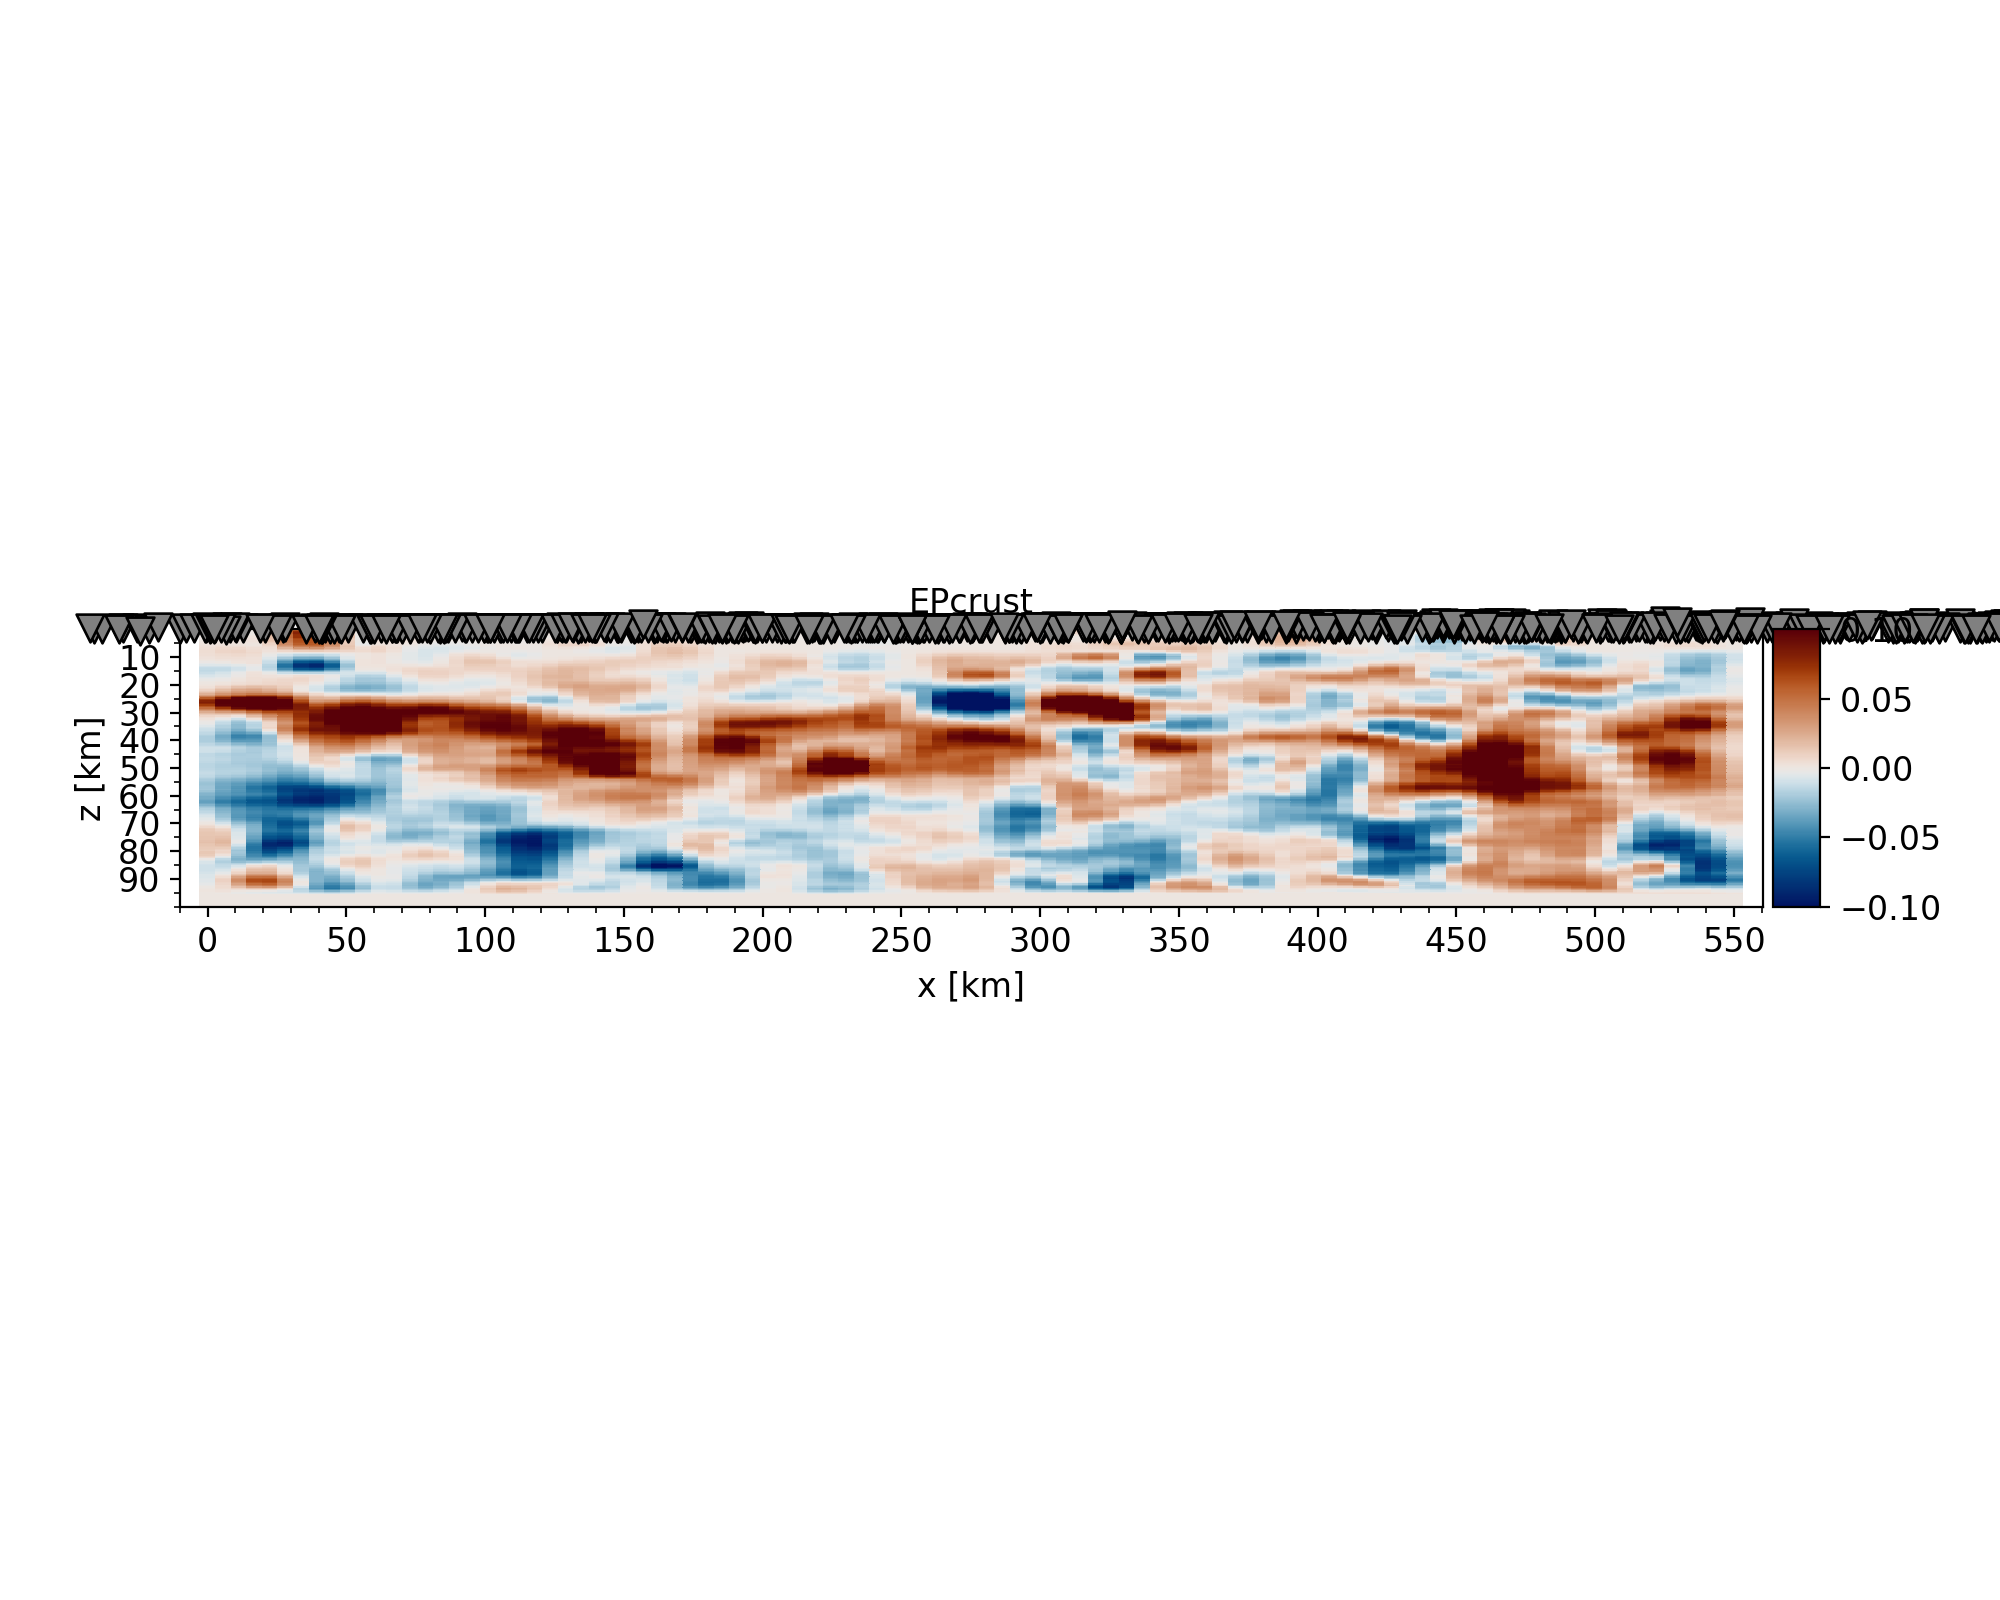
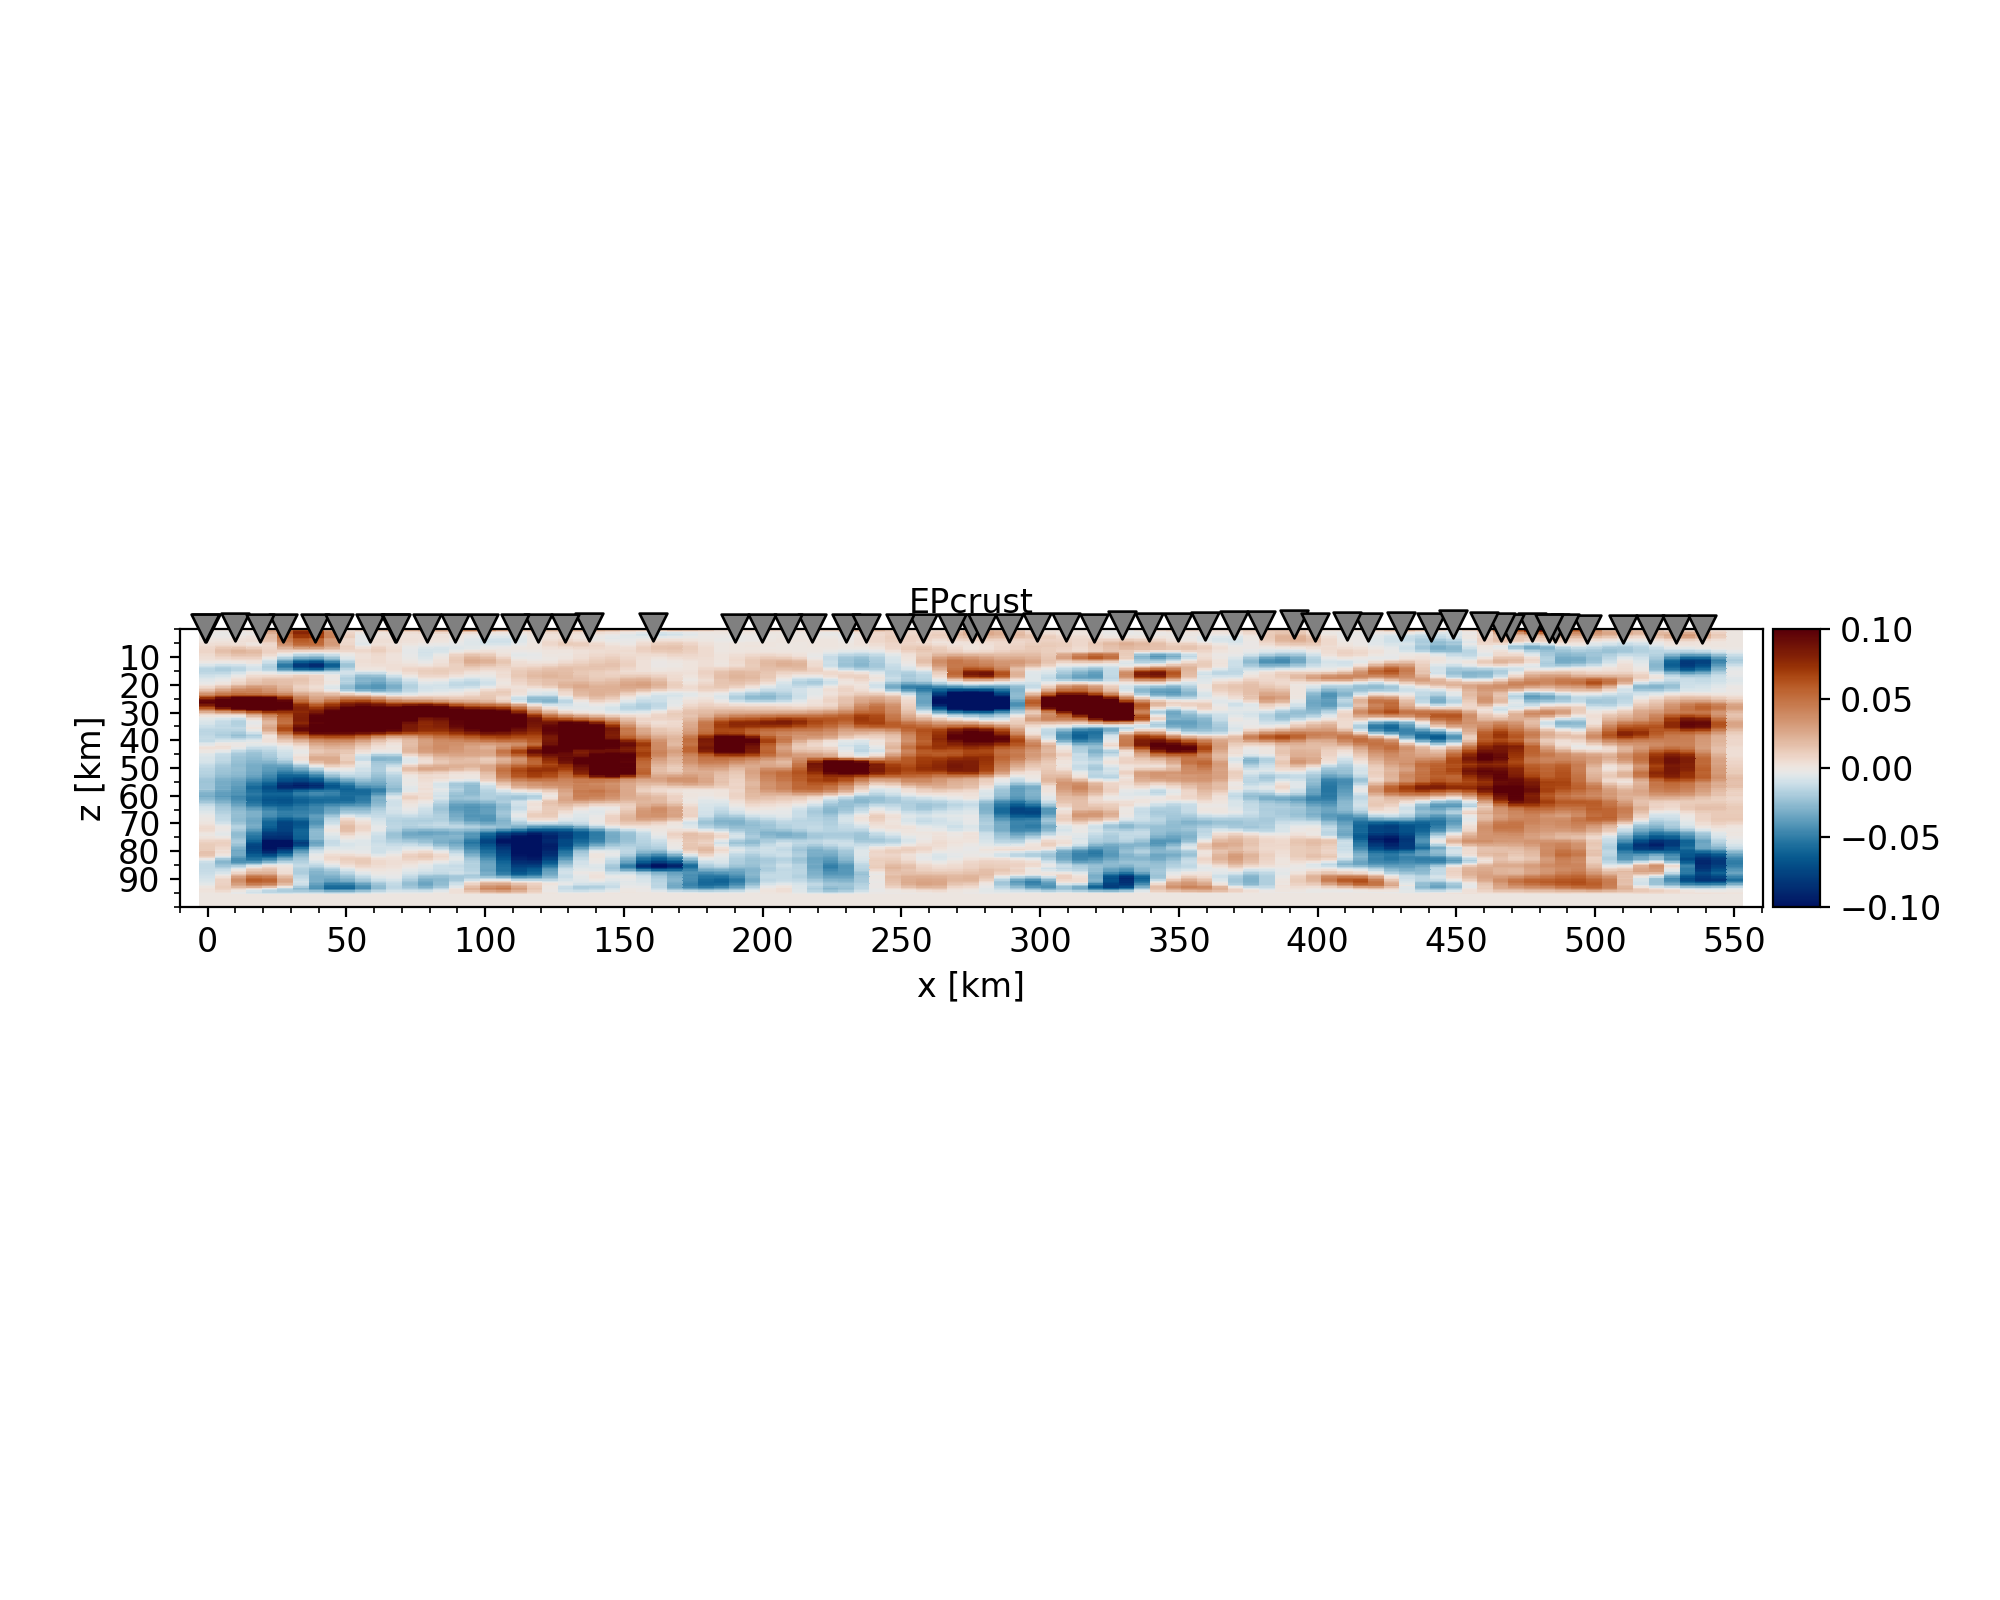
minor changes in comparing epcrust and iasp

Changed region(s): [[0.031, 0.375, 1.0, 0.5625]]

diff --git a/rfmpy/run_examples/iasp91_vs_epcrust.py b/rfmpy/run_examples/iasp91_vs_epcrust.py
@@ -106,16 +106,16 @@ sta = rf_mig.read_stations_from_sac(path2rfs=path)
 with open('/home/kmichailos/Desktop/All_EPcrust.npy', 'rb') as f:
     mObs_ep = np.load(f)
 
-# with open('/home/kmichailos/Desktop/All_iasp91.npy', 'rb') as f:
-#     mObs_ia = np.load(f)
+with open('/home/kmichailos/Desktop/All_iasp91.npy', 'rb') as f:
+    mObs_ia = np.load(f)
 
 
 
 # 3D to 2D
-profile_A = np.array([[8, 46], [8, 48]])
+# profile_A = np.array([[8, 46], [8, 48]])
 profile_A = np.array([[13.35, 50.6], [13.35, 45.6]])
 
-G2_, sta, xx, zz = plot_migration_sphr.create_2d_profile(mObs_ep, m_params, profile_A, sta, swath=25, plot=True)
+G2_, sta, xx, zz = plot_migration_sphr.create_2d_profile(mObs_ep, m_params, profile_A, sta, swath=20, plot=True)
 
 
 def ccp_smooth(G2, migration_param_dict):

diff --git a/build/lib/rfmpy/utils/migration_plots_spher.py b/build/lib/rfmpy/utils/migration_plots_spher.py
@@ -347,6 +347,14 @@ def create_2d_profile(G3, migration_param_dict, profile_points, sta, swath=200, 
         plt.xlim(minx, maxx)
         plt.show()
 
+    # added this to only keep stations within the swath
+    # NOTE Only works for N to S cross sections...
+    # TODO: fix this...
+    print(temp_lon[0],temp_lon[-1] )
+    for index, row in sta.iterrows():
+        if row[2] < temp_lon[0] or row[2] > temp_lon[-1]:
+            sta = sta.drop(index=index)
+
     # Grid preparation
     xx = np.arange(0, profile_len, profile_len / n_extra_points)
     zz = np.arange(minz, maxz + pasz, pasz)

diff --git a/rfmpy/utils/migration_plots_spher.py b/rfmpy/utils/migration_plots_spher.py
@@ -347,6 +347,14 @@ def create_2d_profile(G3, migration_param_dict, profile_points, sta, swath=200, 
         plt.xlim(minx, maxx)
         plt.show()
 
+    # added this to only keep stations within the swath
+    # NOTE Only works for N to S cross sections...
+    # TODO: fix this...
+    print(temp_lon[0],temp_lon[-1] )
+    for index, row in sta.iterrows():
+        if row[2] < temp_lon[0] or row[2] > temp_lon[-1]:
+            sta = sta.drop(index=index)
+
     # Grid preparation
     xx = np.arange(0, profile_len, profile_len / n_extra_points)
     zz = np.arange(minz, maxz + pasz, pasz)
